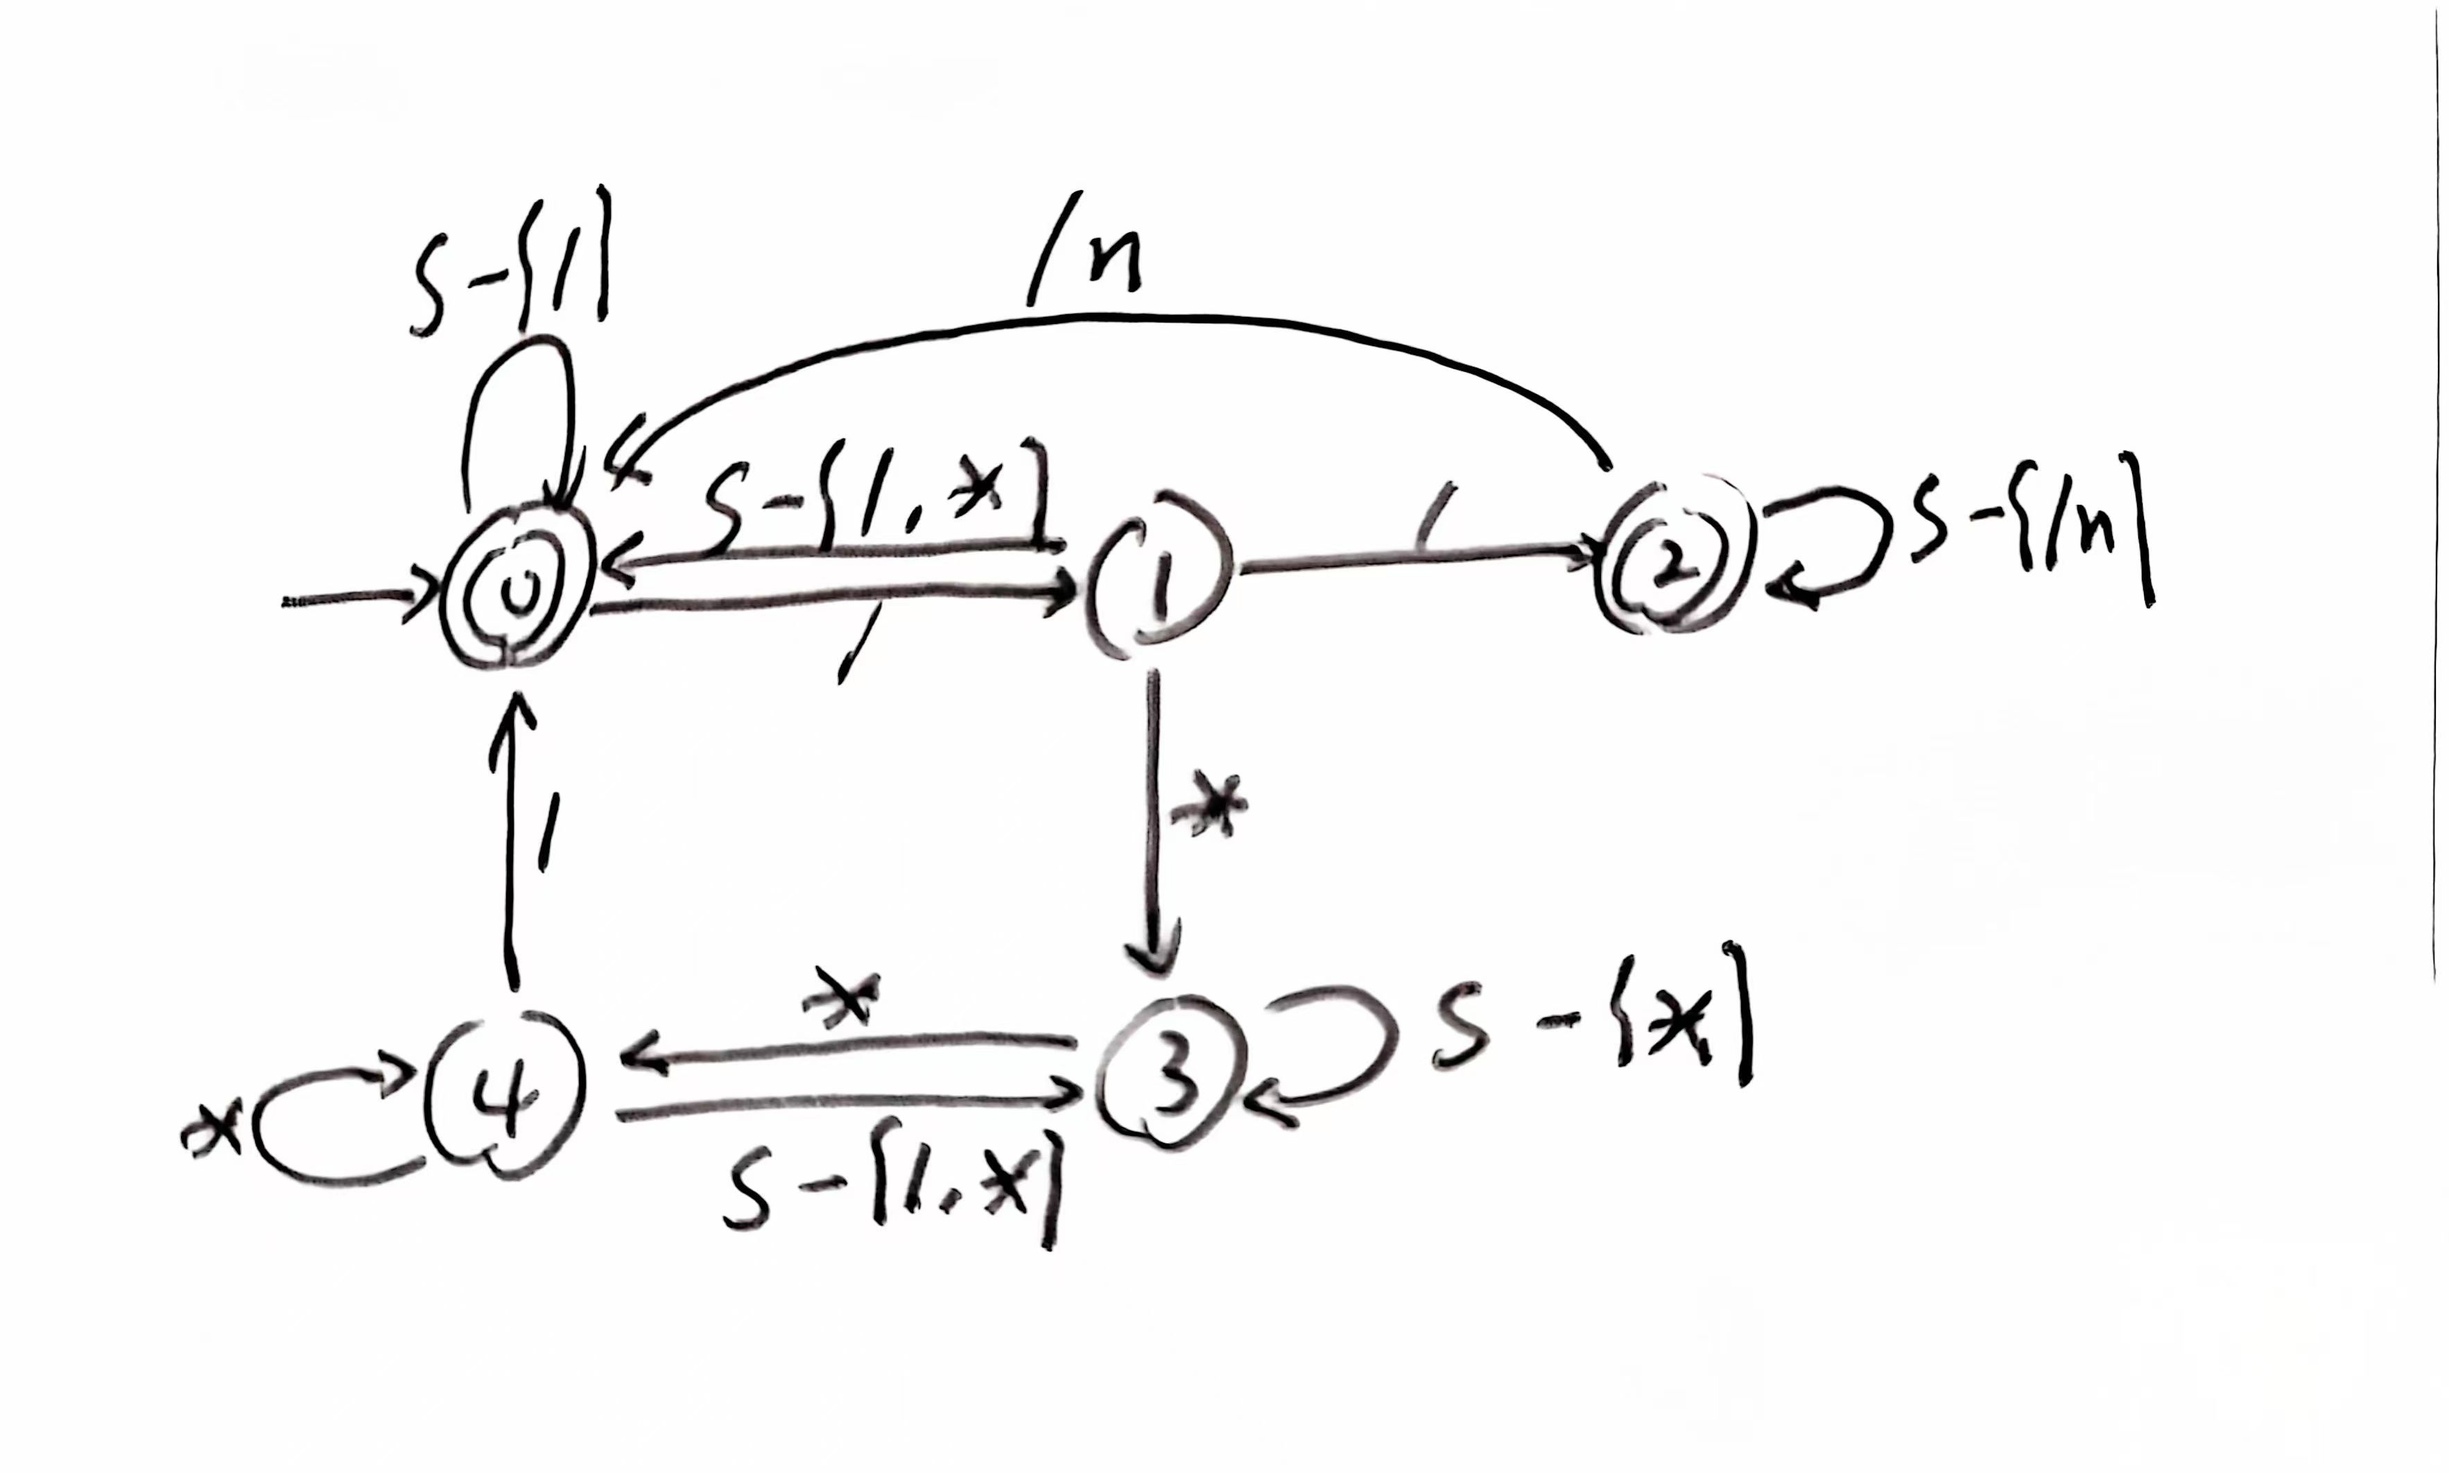
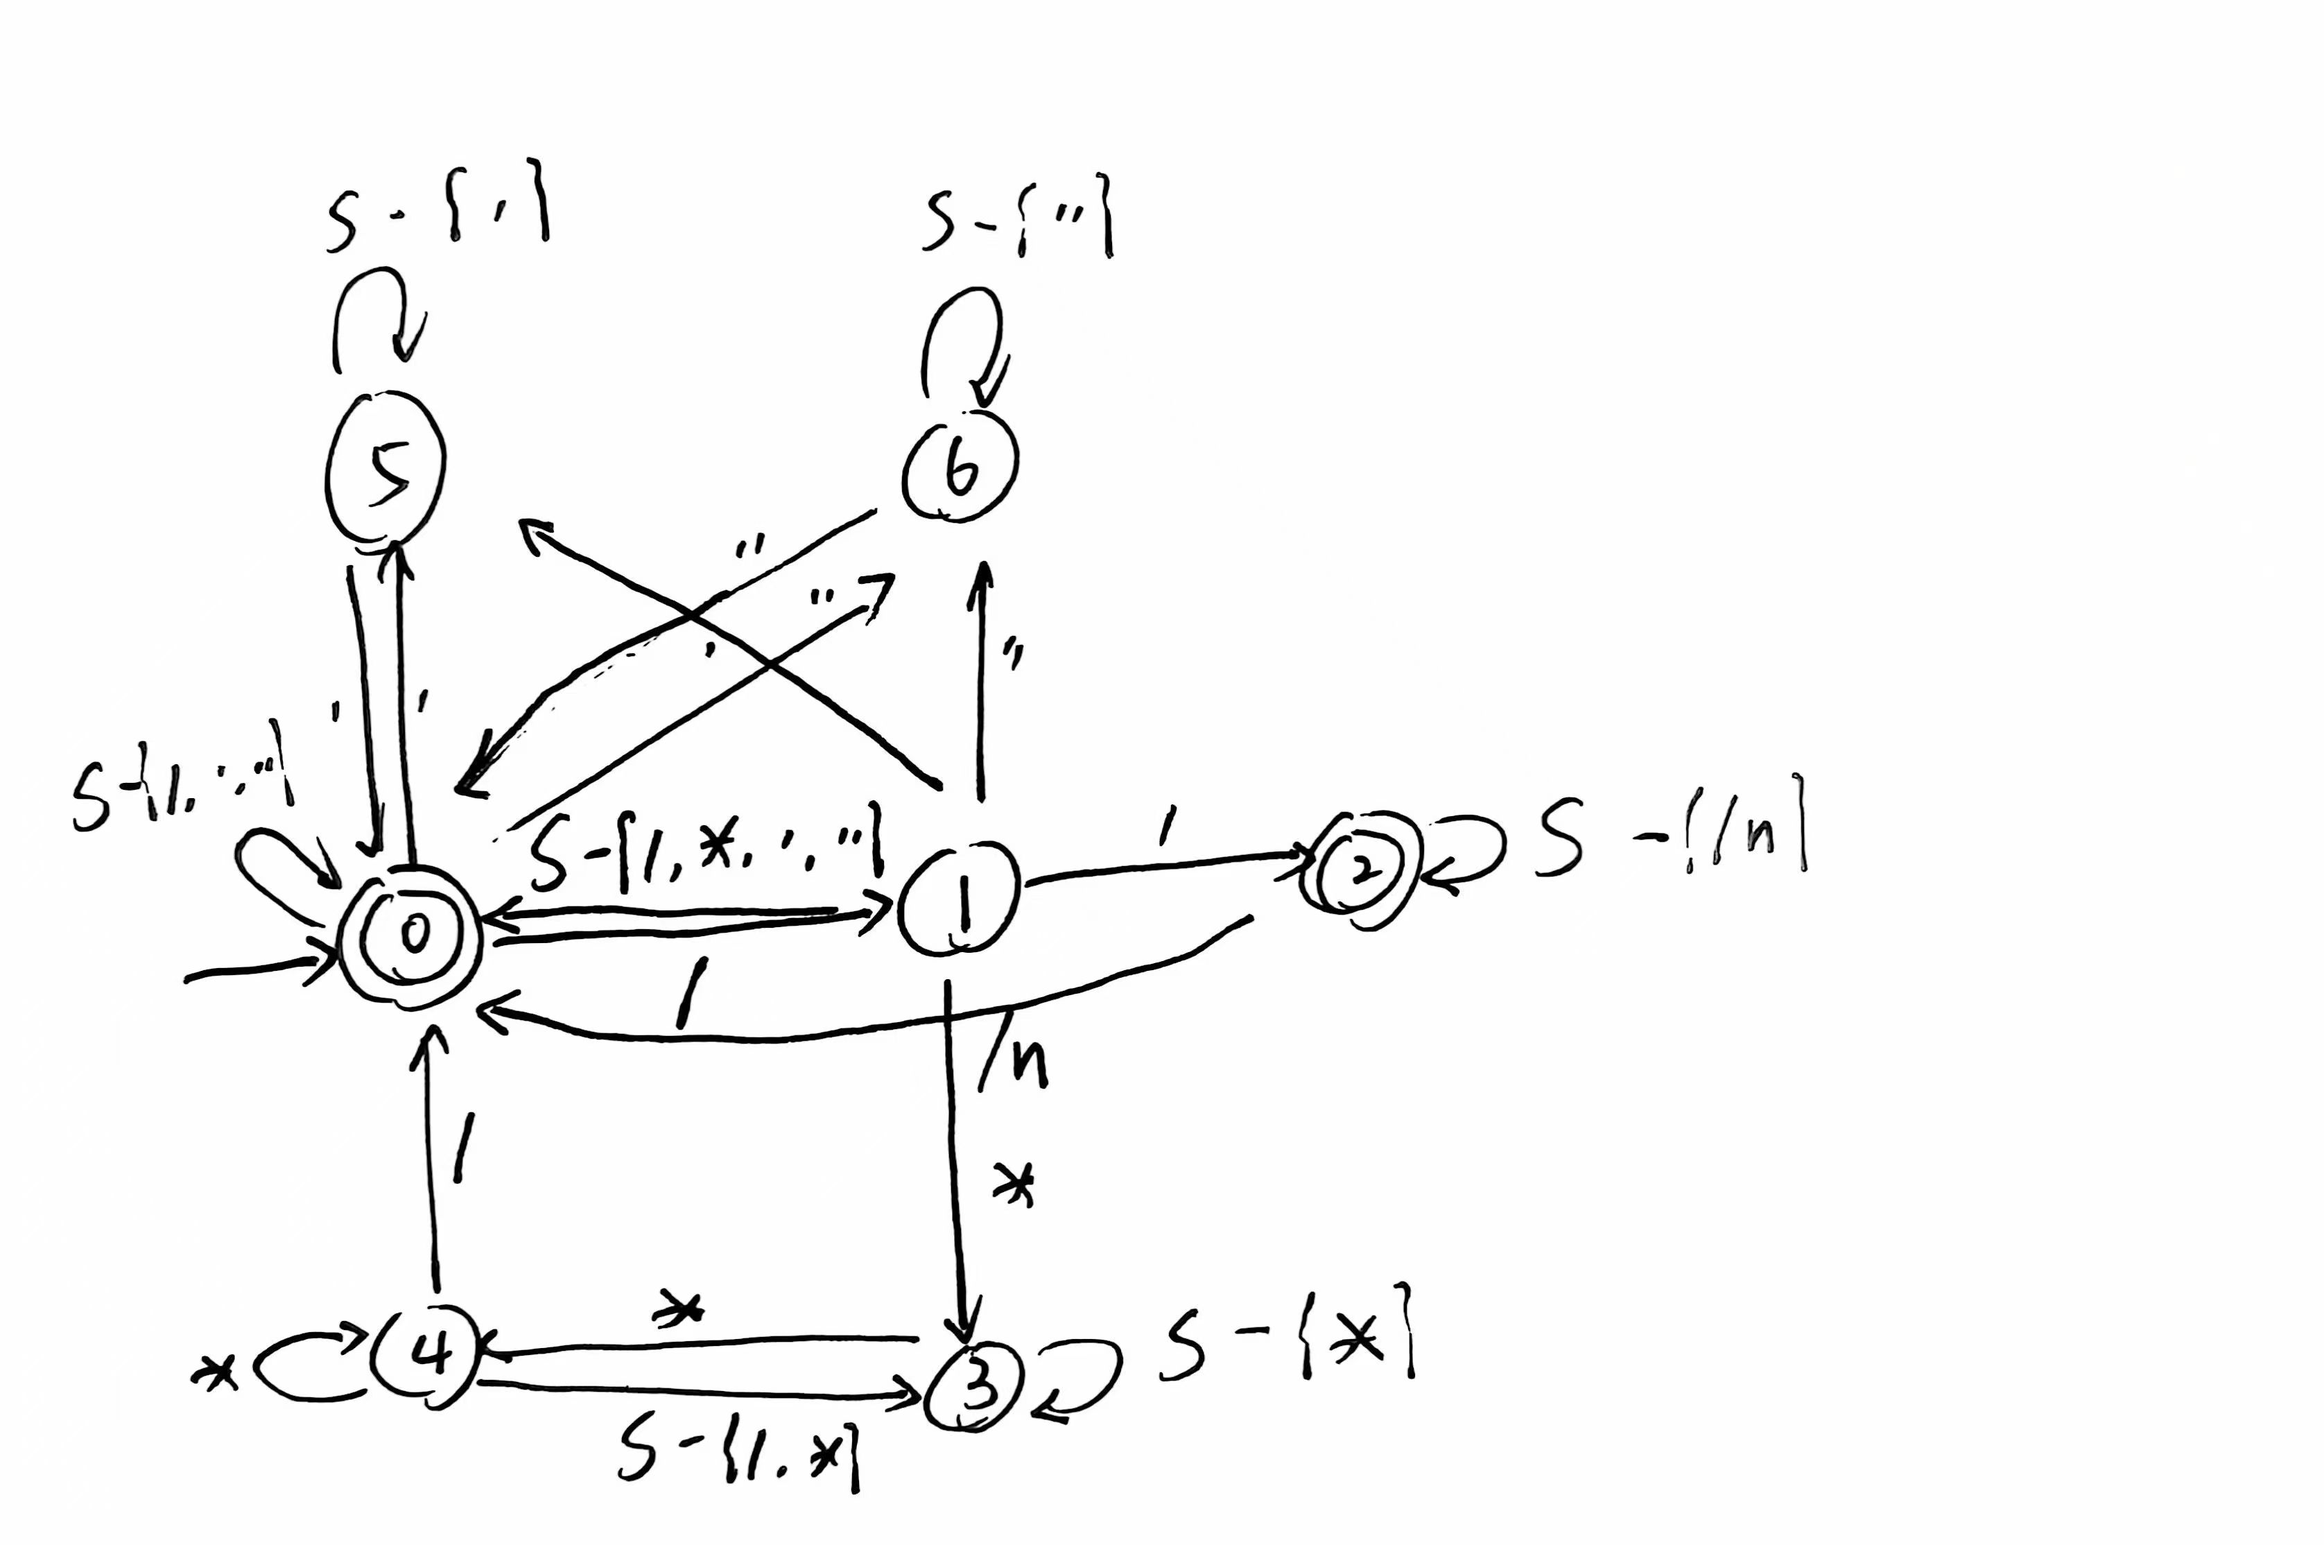
modified:   Chapter1/Section10/Exercise1-23/1_23.c modified:   Chapter1/Section10/Exercise1-23/1_23.exe modified:   Chapter1/Section10/Exercise1-23/state.png

diff --git a/Chapter1/Section10/Exercise1-23/1_23.c b/Chapter1/Section10/Exercise1-23/1_23.c
@@ -5,6 +5,8 @@
 #define STATE2 2
 #define STATE3 3
 #define STATE4 4
+#define STATE5 5
+#define STATE6 6
 /* remove all comments from a C program */
 main()
 {
@@ -20,7 +22,13 @@ main()
                 if(c == '/')
                     state = STATE1;
                 else
+                {
                     putchar(c);
+                    if(c == '\'')
+                        state = STATE5;
+                    else if(c == '"')
+                        state = STATE6;
+                }
                 break;
             case STATE1:
                 if(c == '/')
@@ -31,7 +39,12 @@ main()
                 {
                     putchar('/');
                     putchar(c);
-                    state = STATE0;
+                    if(c == '\'')
+                        state = STATE5;
+                    else if(c == '"')
+                        state = STATE6;
+                    else
+                        state = STATE0;
                 }
                 break;
             case STATE2:
@@ -50,6 +63,16 @@ main()
                     state = STATE0;
                 else if(c != '*')
                     state = STATE3;
+                break;
+            case STATE5:
+                putchar(c);
+                if(c == '\'')
+                    state = STATE0;
+                break;
+            case STATE6:
+                putchar(c);
+                if(c == '"')
+                    state = STATE0;
                 break;
             default:
                 break;
